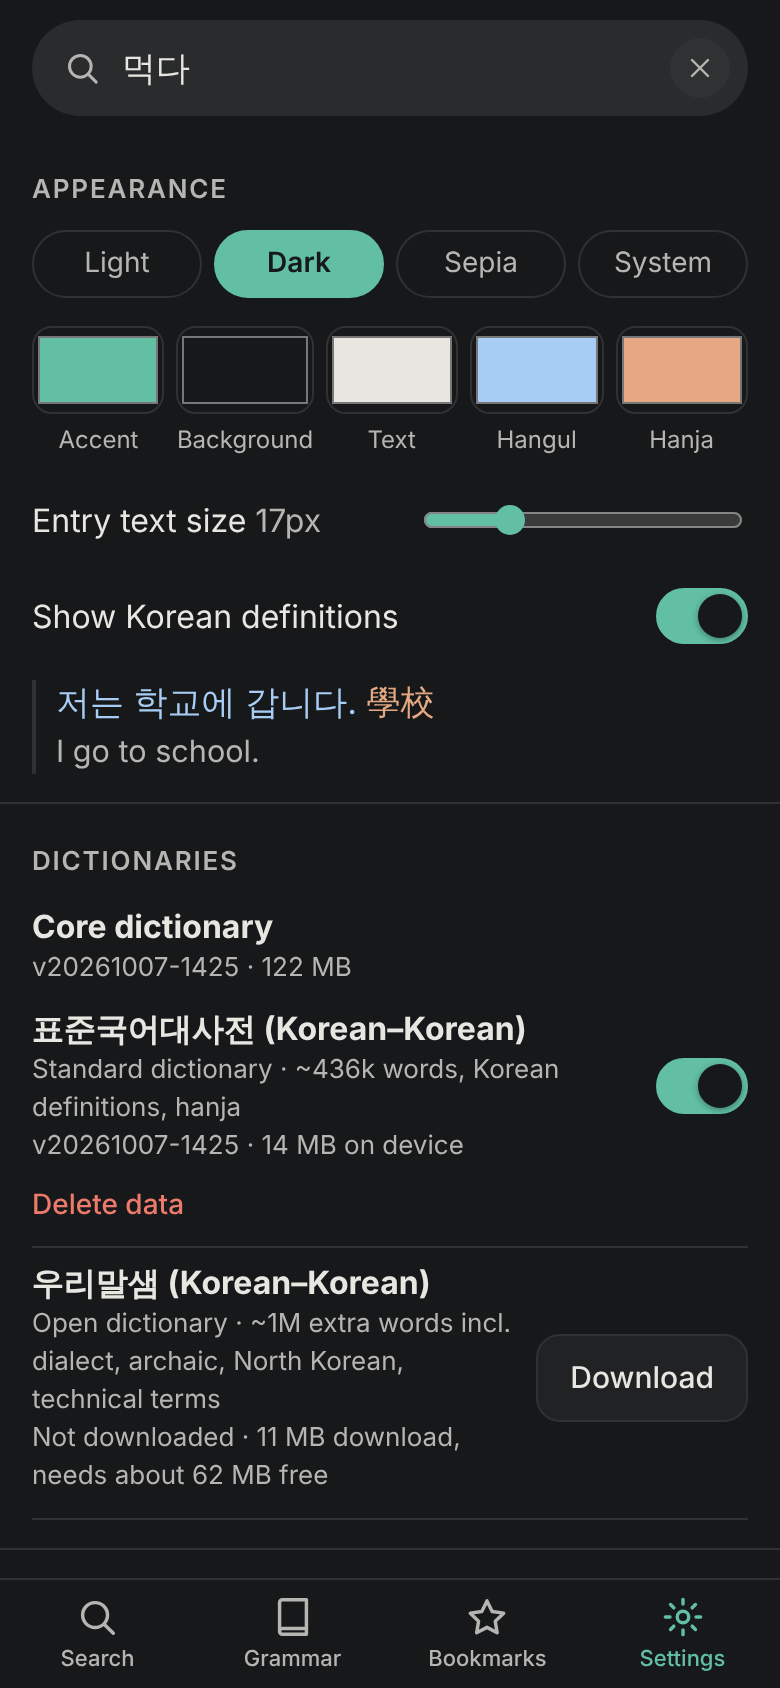
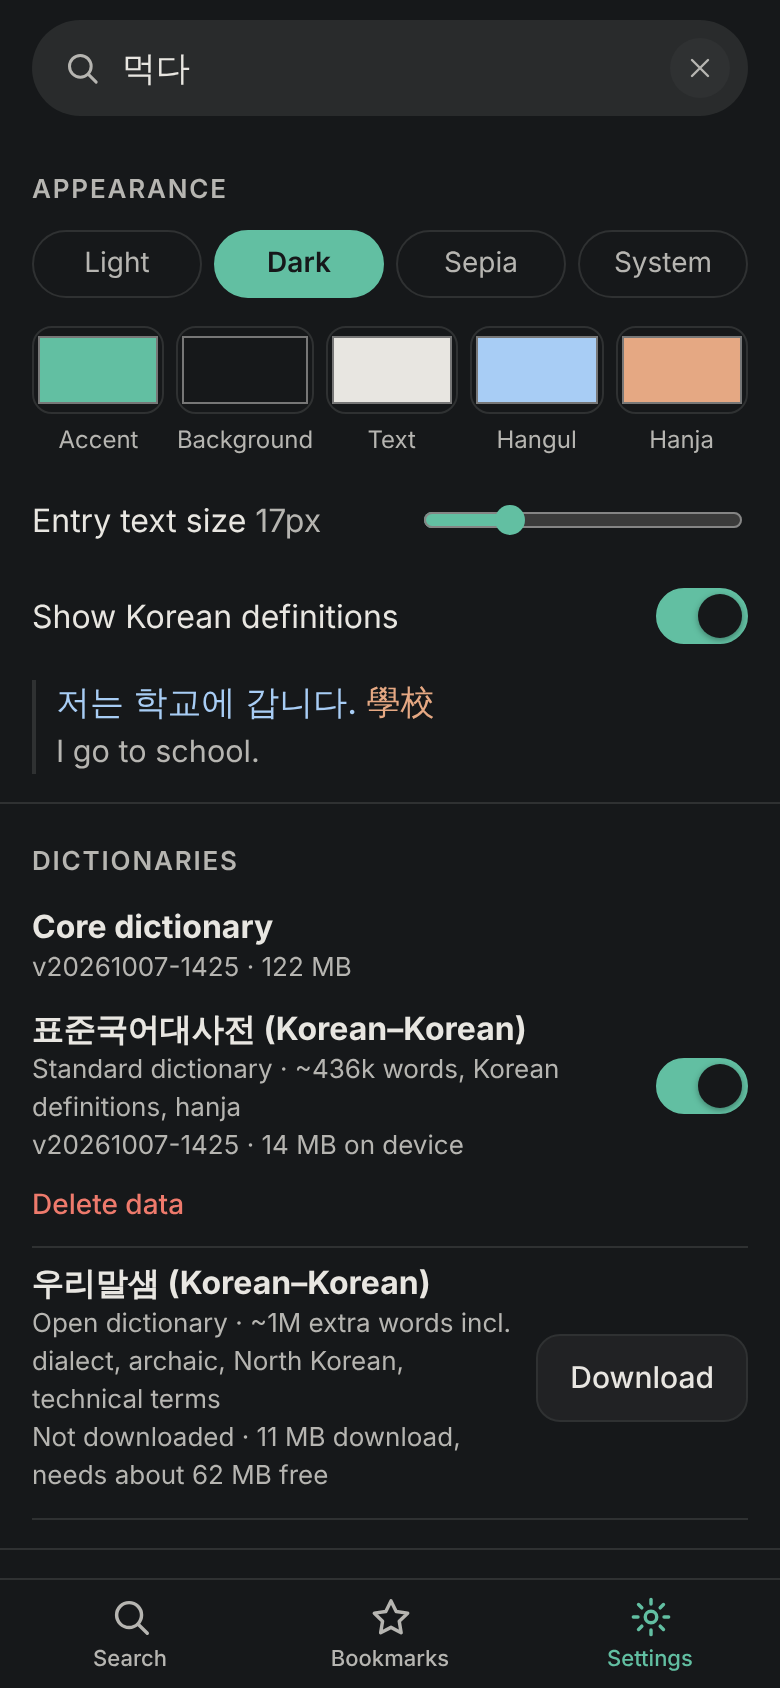
Remove the grammar tab and word of the day; three-tab bar
Claude-Session: https://claude.ai/code/session_01KdPaeje8PEPnx6eSEhkmxd

Changed region(s): [[0.3077, 0.955, 0.6769, 0.9858], [0.8, 0.955, 0.9231, 1.0], [0.0923, 0.955, 0.2154, 0.9858]]

diff --git a/app/src/views/Home.tsx b/app/src/views/Home.tsx
@@ -1,58 +1,15 @@
-import { useAsync } from '../lib/useAsync';
-import { db } from '../db/client';
 import { history, clearHistory } from '../lib/history';
 import { useStore } from '../lib/store';
-import { entryPath, href } from '../lib/router';
+import { href } from '../lib/router';
 import { savedPath } from '../lib/entry-key';
-import { Hanja, LevelBadge, Pos } from '../components/common';
+import { Hanja } from '../components/common';
 import { UpdateBanner } from '../components/UpdateBanner';
-import type { ResultRow } from '../db/types';
-import { todayStr } from '../lib/app-state';
-
-/** Word of the day is cached per date (the query is slow on the full pack) and fetched shortly after first paint. */
-function peekWotd(): ResultRow | undefined {
-  try { const c = JSON.parse(localStorage.getItem('kd.wotd') || 'null'); if (c?.day === todayStr() && c.row) return c.row; } catch { /* ignore */ }
-  return undefined;
-}
-// engine.wordOfDay() full-scans the 118 MB pack (~11 s cold) and would block searches, so pick from a curated
-// beginner list (all krdict level 1–2) by date and look it up by headword (~10 ms); fall back to the engine.
-const WOTD_WORDS = '가다 오다 먹다 마시다 보다 듣다 읽다 쓰다 말하다 사랑 친구 학교 학생 선생님 가족 어머니 아버지 형 누나 동생 집 방 문 창문 책 연필 가방 옷 신발 모자 물 밥 김치 과일 사과 우유 커피 차 음식 시장 가게 돈 시간 오늘 어제 내일 아침 저녁 하늘 바다 산 강 꽃 나무 비 눈 바람 날씨 봄 여름 가을 겨울 크다 작다 많다 적다 좋다 나쁘다 예쁘다 춥다 덥다 맛있다 재미있다 어렵다 쉽다 빠르다 느리다 아프다 행복 건강 여행 공부 운동 음악 영화 사진 전화 이름 나이 생일 고향 나라 한국 서울 도시 길 차 버스 지하철 기차 비행기 병원 은행 도서관 식당 공원'.split(' ');
-async function pickFromList(day: string): Promise<ResultRow | null> {
-  const n = [...day].reduce((h, c) => (h * 31 + c.charCodeAt(0)) >>> 0, 7);
-  for (let i = 0; i < 6; i++) {
-    const hw = WOTD_WORDS[(n + i * 17) % WOTD_WORDS.length];
-    const es = await db.getEntriesByHeadword(hw);
-    const e = es.find((x) => x.source === 'krdict' && (x.level ?? 9) <= 2 && x.kind === 'word' && x.gloss);
-    if (e) return { source: e.source, id: e.id, headword: e.headword, hanja: e.hanja, pos: e.pos, level: e.level, gloss: e.gloss, kind: e.kind, pack: 'core', rank: e.rank, lang: e.lang, hw_norm: e.hw_norm };
-  }
-  return null;
-}
-async function wordOfDay(): Promise<ResultRow | null> {
-  const day = todayStr();
-  try { const c = JSON.parse(localStorage.getItem('kd.wotd') || 'null'); if (c?.day === day && c.row) return c.row; } catch { /* ignore */ }
-  const row = (await pickFromList(day)) ?? (await db.randomWordOfDay(day));
-  try { if (row) localStorage.setItem('kd.wotd', JSON.stringify({ day, row })); } catch { /* ignore */ }
-  return row;
-}
 
 export function Home() {
   const hist = useStore(history);
-  const wotd = useAsync(() => wordOfDay(), [], peekWotd);
-  const w = wotd.data;
   return (
     <div class="page">
       <UpdateBanner />
-      {w && (
-        <a class="wotd" href={href(entryPath(w.source, w.id, w.headword))}>
-          <div class="eyebrow">Word of the day</div>
-          <div class="wotd-head">
-            <span class="hangul wotd-hw" lang="ko">{w.headword}</span>
-            {w.hanja && <Hanja text={w.hanja} />}
-            <LevelBadge level={w.level} />
-          </div>
-          <div class="wotd-gloss"><Pos pos={w.pos} /> {w.gloss}</div>
-        </a>
-      )}
       <div class="section-head">
         <h2>Recent</h2>
         {hist.length > 0 && <button type="button" class="link" onClick={() => clearHistory()}>Clear</button>}

diff --git a/app/src/styles.css b/app/src/styles.css
@@ -61,7 +61,7 @@ main { flex: 1; overflow-y: auto; -webkit-overflow-scrolling: touch; outline: no
 .clear::after, .link::after, .seg button::after { content: ''; position: absolute; } /* invisible 44px tap area */
 .clear::after { inset: -7px; }
 
-.tabbar { display: grid; grid-template-columns: repeat(4, 1fr); border-top: 1px solid var(--border); background: var(--bg); padding-bottom: env(safe-area-inset-bottom); }
+.tabbar { display: grid; grid-auto-flow: column; grid-auto-columns: 1fr; border-top: 1px solid var(--border); background: var(--bg); padding-bottom: env(safe-area-inset-bottom); }
 .tab { display: flex; flex-direction: column; align-items: center; justify-content: center; gap: 2px; height: var(--tabbar-h); font-size: 11px; color: var(--muted); font-weight: 500; }
 .tab.on { color: var(--accent); }
 
@@ -104,12 +104,7 @@ main { flex: 1; overflow-y: auto; -webkit-overflow-scrolling: touch; outline: no
 @keyframes sp { to { transform: rotate(360deg); } }
 
 /* ---------- Home ---------- */
-.wotd { display: block; margin: 8px 16px 0; padding: 16px 18px; border-radius: var(--radius); background: var(--accent-soft); color: inherit; }
 .eyebrow { font-size: 11.5px; letter-spacing: .08em; text-transform: uppercase; color: var(--accent); font-weight: 600; }
-.wotd-head { display: flex; align-items: baseline; gap: 10px; margin-top: 4px; flex-wrap: wrap; }
-.wotd-hw { font-size: 34px; font-weight: 600; line-height: 1.2; }
-.wotd .hanja { font-size: 20px; }
-.wotd-gloss { margin-top: 2px; color: color-mix(in srgb, var(--text) 85%, var(--bg)); }
 
 /* ---------- Entry ---------- */
 .entry { font-size: var(--entry-font-size); }
@@ -188,7 +183,6 @@ main { flex: 1; overflow-y: auto; -webkit-overflow-scrolling: touch; outline: no
 .seg button.on { background: var(--accent); border-color: var(--accent); color: var(--on-accent); font-weight: 600; }
 .seg button::after { inset: -5px -2px; }
 .seg .count { opacity: .7; font-size: 12px; margin-left: 2px; }
-.grammar-filter { padding-top: 6px; } .grammar-filter .field { margin: 0 16px 8px; width: calc(100% - 32px); }
 .folder-bar { display: flex; align-items: center; padding-right: 8px; } .folder-bar .seg { flex: 1; min-width: 0; padding-top: 8px; }
 .bm { display: flex; align-items: center; } .bm .row { flex: 1; min-width: 0; } .bm-actions { display: flex; padding-right: 6px; }
 

diff --git a/app/e2e/app.spec.ts b/app/e2e/app.spec.ts
@@ -12,7 +12,7 @@ const search = async (page: Page, q: string) => {
 
 async function tour(page: Page, theme: 'light' | 'dark') {
   await page.goto('/#/');
-  await expect(page.getByText('Word of the day')).toBeVisible();
+  await expect(page.getByRole('heading', { name: 'Recent' })).toBeVisible();
   await shot(page, `${theme}-home`);
   await search(page, '먹다');
   await expect(page.locator('.row .hw', { hasText: '먹다' }).first()).toBeVisible();
@@ -25,9 +25,6 @@ async function tour(page: Page, theme: 'light' | 'dark') {
   await expect(page.locator('h1')).toContainText('먹다');
   await page.waitForTimeout(500);
   await shot(page, `${theme}-entry`);
-  await page.getByRole('link', { name: 'Grammar' }).click();
-  await expect(page.locator('.row .hw').first()).toBeVisible();
-  await shot(page, `${theme}-grammar`);
   await page.getByRole('link', { name: 'Settings' }).click();
   await expect(page.getByRole('heading', { name: 'Appearance' })).toBeVisible();
   await shot(page, `${theme}-settings`);
@@ -149,7 +146,7 @@ test('performance budgets (loose: <100ms headless)', async ({ page }) => {
   await expect(page.getByRole('searchbox', { name: 'Search' })).toBeVisible({ timeout: 240_000 });
   // warm the engine (first queries touch cold pages), then measure typing a word keystroke by keystroke
   await typeAndMeasure(page, '학교');
-  await page.waitForTimeout(2500); // grammar list is prefetched ~1.5 s after engine-ready (a main-thread blip)
+  await page.waitForTimeout(2500); // let background warm-up start
   const keys: number[] = [];
   for (const q of ['ㅎ', '하', '학', '학교', '가', '갔', '먹', '먹다', '사', '사랑']) keys.push(await typeAndMeasure(page, q));
   for (const q of ['갔어요', 'eat', 'school', 'go', 'e', 'ea', 'love', '學']) keys.push(await typeAndMeasure(page, q));
@@ -171,7 +168,7 @@ test('performance budgets (loose: <100ms headless)', async ({ page }) => {
     history.back();
   }));
   const tabs: number[] = [];
-  for (const name of ['Grammar', 'Bookmarks', 'Settings', 'Grammar']) {
+  for (const name of ['Bookmarks', 'Settings', 'Bookmarks']) {
     tabs.push(await page.evaluate((n) => new Promise<number>((resolve) => {
       const t = performance.now();
       const main = document.querySelector('main')!;

diff --git a/app/src/db/client.ts b/app/src/db/client.ts
@@ -1,6 +1,6 @@
 // Main-thread proxy for the DB worker.
 import type { Evt, Req, Res } from './rpc';
-import type { Entry, GrammarRow, HanjaChar, Manifest, ManifestPack, PackStatus, Progress, ResultRow, SearchResult, Sentence } from './types';
+import type { Entry, HanjaChar, Manifest, ManifestPack, PackStatus, Progress, ResultRow, SearchResult, Sentence } from './types';
 import { createStore } from '../lib/store';
 import { settings } from '../lib/settings';
 import { activePacks } from '../lib/packs';
@@ -25,8 +25,8 @@ channel?.addEventListener('message', (ev: MessageEvent<{ t: string; from: string
   if (installActive.get()) { channel?.postMessage({ t: 'busy-installing', from: instanceId }); return; } // never abort a download
   releaseWorker(true);
 });
-// After handing over, this copy must not take the files back for background work (grammar
-// prefetch, word of the day…) — that would knock out the copy in use. Calls wait until the user
+// After handing over, this copy must not take the files back for background work (status
+// refreshes, history upgrades…) — that would knock out the copy in use. Calls wait until the user
 // actually comes back here: a tap, a key, focus, or the page becoming visible again.
 let handedOver = false;
 let waiters: (() => void)[] = [];
@@ -131,8 +131,6 @@ export const db = {
   hanjaChar: (ch: string) => call<HanjaChar | null>('hanjaChar', ch),
   wordsWithHanja: (ch: string, limit: number, offset = 0) => call<ResultRow[]>('wordsWithHanja', ch, limit, offset),
   sentences: (text: string, limit: number) => call<Sentence[]>('sentences', text, limit),
-  grammarList: () => call<GrammarRow[]>('grammarList'),
-  randomWordOfDay: (date: string) => call<ResultRow | null>('wordOfDay', date),
   packStatus: refreshStatus,
   install: async (pack: ManifestPack, manifestUrl: string, version: string) => {
     // The engine keeps the old pack usable until the new import finishes, so status is refreshed after success AND failure.

diff --git a/app/src/App.tsx b/app/src/App.tsx
@@ -5,7 +5,6 @@ import { Home } from './views/Home';
 import { Results } from './views/Results';
 import { EntryView } from './views/Entry';
 import { HanjaPage } from './views/HanjaPage';
-import { GrammarView, prefetchGrammar } from './views/Grammar';
 import { BookmarksView } from './views/Bookmarks';
 import { SettingsView, checkForUpdate } from './views/Settings';
 import { FirstRun } from './views/FirstRun';
@@ -38,7 +37,7 @@ export function App() {
   }, [s.theme]);
   useEffect(() => {
     loadBookmarks(); loadHistory();
-    refreshStatus().then((st) => { if (st.packs.core?.installed) { setTimeout(prefetchGrammar, 1500); const lookup = (src: string, id: number) => db.getEntry(src, id); void upgradeBookmarks(lookup); void upgradeHistory(lookup); } if (navigator.onLine) checkForUpdate(); }).catch(() => undefined);
+    refreshStatus().then((st) => { if (st.packs.core?.installed) { const lookup = (src: string, id: number) => db.getEntry(src, id); void upgradeBookmarks(lookup); void upgradeHistory(lookup); } if (navigator.onLine) checkForUpdate(); }).catch(() => undefined);
   }, []);
   // Remember scroll per route so Back restores the list position (content is cached, so it paints at once).
   useEffect(() => {
@@ -78,7 +77,6 @@ function view(r: Route) {
     case 'entry': return <EntryView key={r.raw} source={r.parts[0]} id={Number(r.parts[1])} hw={r.params.get('hw') ?? undefined} />;
     case 'word': return <EntryView key={r.raw} word={r.parts[0]} pref={r.params.has('s') ? refFromParams(r.params) : undefined} />;
     case 'hanja': return <HanjaPage key={r.parts[0]} ch={r.parts[0]} />;
-    case 'grammar': return <GrammarView key={r.params.get('q') ?? ''} initialQ={r.params.get('q') ?? ''} />;
     case 'bookmarks': return <BookmarksView />;
     case 'settings': return <SettingsView />;
     default: return <Home />;

diff --git a/app/src/lib/packs.ts b/app/src/lib/packs.ts
@@ -2,7 +2,7 @@ import type { Manifest, ManifestPack, PackStatus } from '../db/types';
 import type { Settings } from './settings';
 
 export const PACK_INFO: Record<string, { label: string; desc: string }> = {
-  core: { label: 'Core dictionary', desc: 'English definitions, hanja, examples, grammar' },
+  core: { label: 'Core dictionary', desc: 'English definitions, hanja, example sentences' },
   stdict: { label: '표준국어대사전 (Korean–Korean)', desc: 'Standard dictionary · ~436k words, Korean definitions, hanja' },
   opendict: { label: '우리말샘 (Korean–Korean)', desc: 'Open dictionary · ~1M extra words incl. dialect, archaic, North Korean, technical terms' },
 };

diff --git a/app/src/views/Results.tsx b/app/src/views/Results.tsx
@@ -92,9 +92,6 @@ export function Results({ q }: { q: string }) {
           ))}
         </div>
       )}
-      {shown?.grammarHints?.length ? (
-        <div class="notice">{shown.grammarHints.map((h) => <div key={h}><a href={href(`/grammar?q=${encodeURIComponent(h.split(/[:\s(]/)[0])}`)}>{h}</a></div>)}</div>
-      ) : null}
       {!busy && groups.length === 0 && !shown?.hanja?.length && (
         <Empty title={`No results for “${q}”`}>Try another spelling, the dictionary form, or an English word.</Empty>
       )}

diff --git a/app/src/views/Entry.tsx b/app/src/views/Entry.tsx
@@ -75,9 +75,6 @@ export function EntryView({ source, id, hw, word, pref }: { source?: string; id?
       ))}
       {primary.hanja && hanChars(primary.hanja).length > 0 && <HanjaSection primary={primary} />}
       <MoreExamples headword={primary.headword} />
-      {entries.some((e) => e.kind === 'grammar') && (
-        <a class="btn-link" href={href(`/grammar?q=${encodeURIComponent(primary.headword)}`)}><Icon name="book" size={18} /> Open in grammar reference</a>
-      )}
     </article>
   );
 }

diff --git a/app/src/components/TabBar.tsx b/app/src/components/TabBar.tsx
@@ -4,7 +4,6 @@ import { query } from '../lib/app-state';
 
 const TABS = [
   { name: 'search', icon: 'search', label: 'Search', match: ['home', 'search', 'entry', 'word', 'hanja'] },
-  { name: 'grammar', icon: 'book', label: 'Grammar', match: ['grammar'] },
   { name: 'bookmarks', icon: 'star', label: 'Bookmarks', match: ['bookmarks'] },
   { name: 'settings', icon: 'gear', label: 'Settings', match: ['settings'] },
 ];
